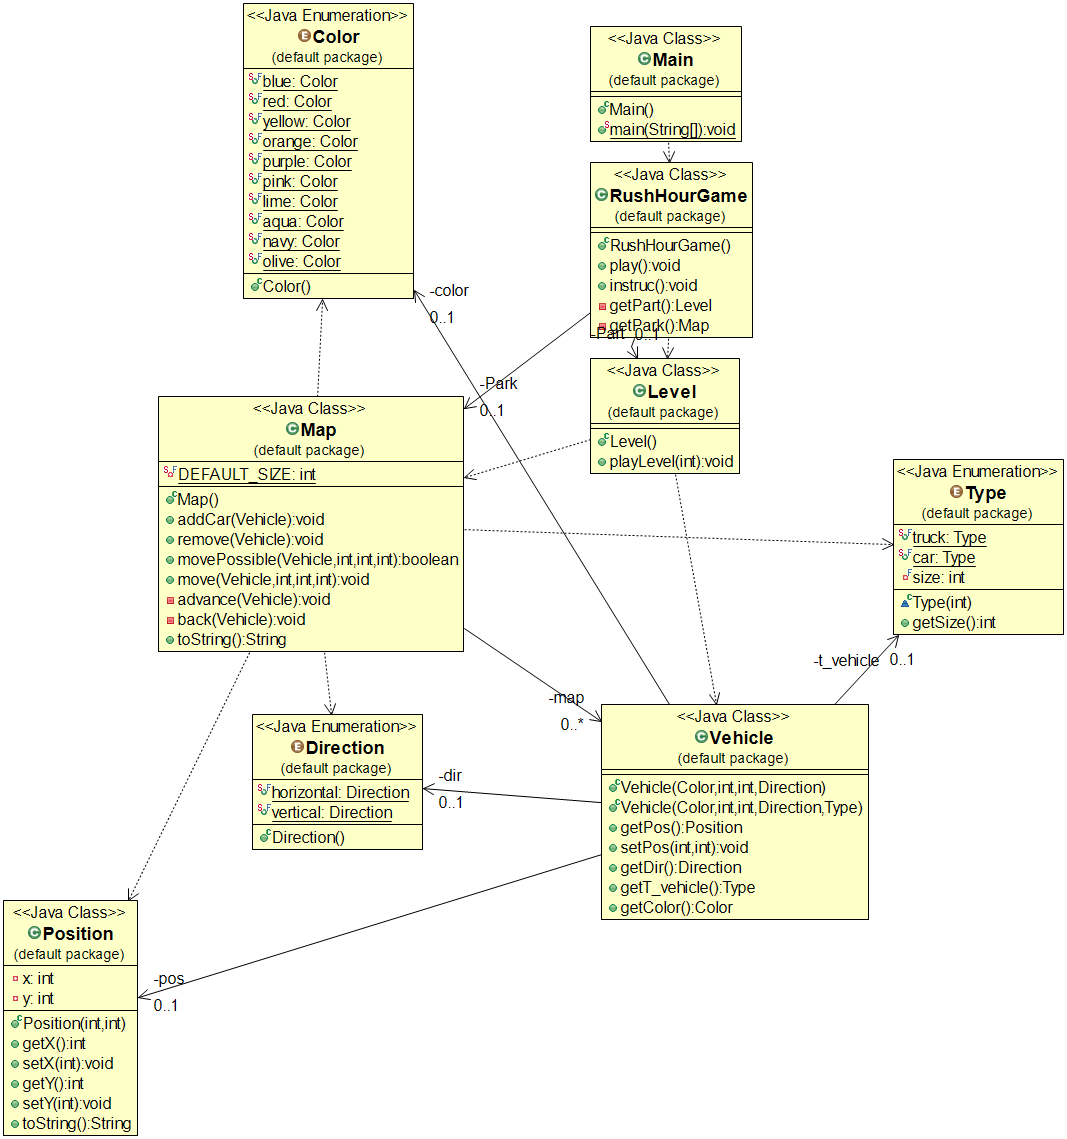
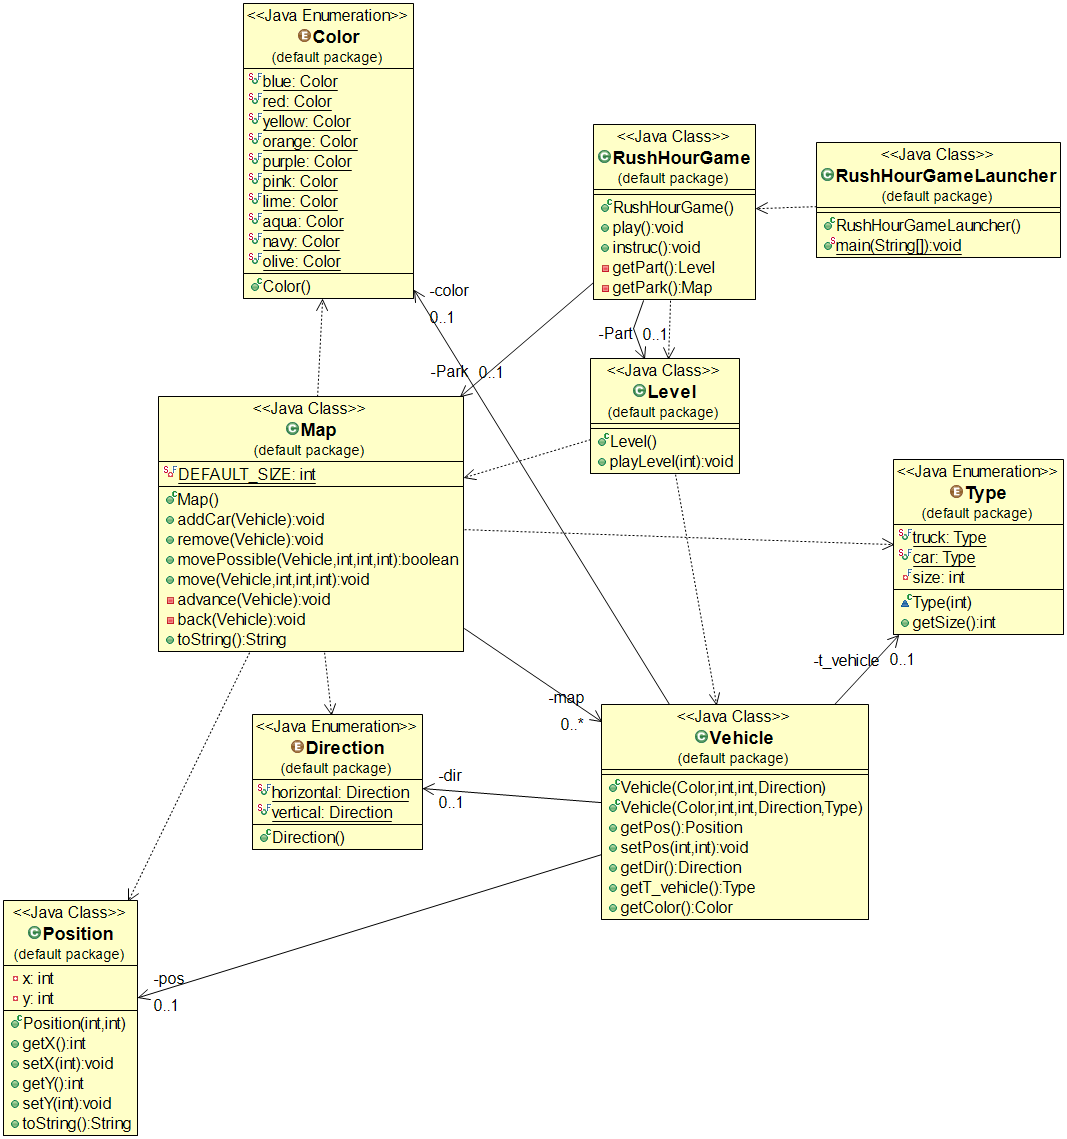
rename main to RushHourGameLauncher

Changed region(s): [[0.5258, 0.0, 0.7113, 0.3073], [0.7423, 0.1229, 1.0, 0.2458], [0.4021, 0.3073, 0.4948, 0.3687]]

diff --git a/src/RushHourGameLauncher.java b/src/RushHourGameLauncher.java
@@ -1,10 +1,10 @@
 
-//TODO rename to RushHourGameLauncher
+//TODO (done) rename to RushHourGameLauncher
 /**
  * @author lefebvre julien
  *
  */
-public class Main {
+public class RushHourGameLauncher {
 
 	/**
 	 * creation of part
